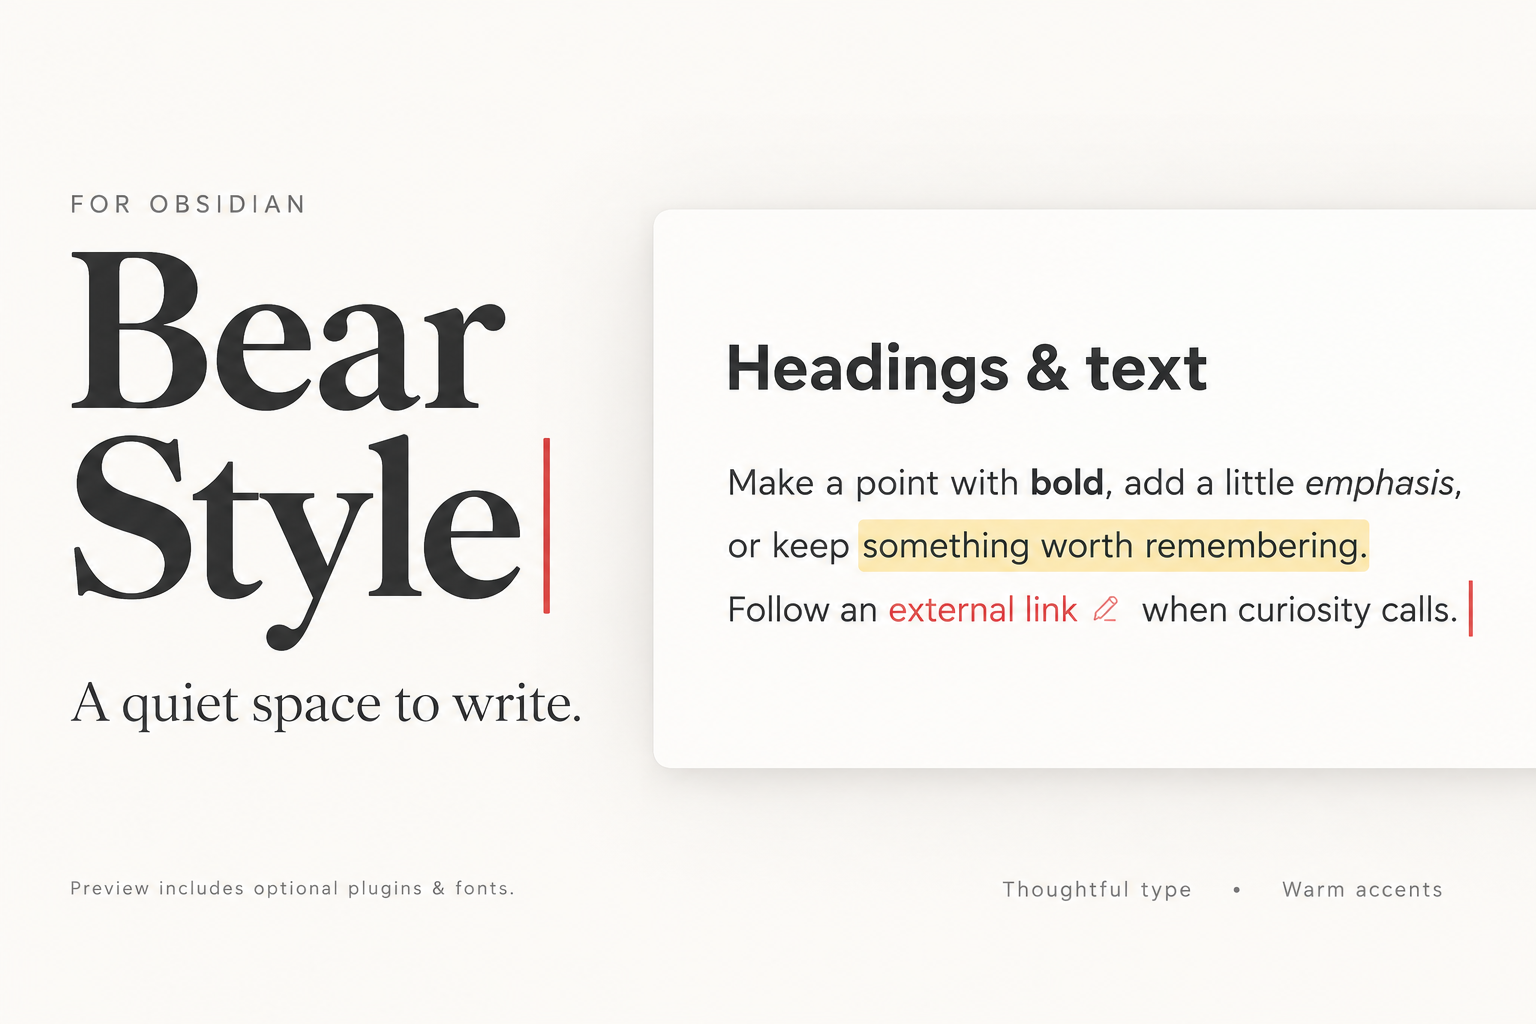
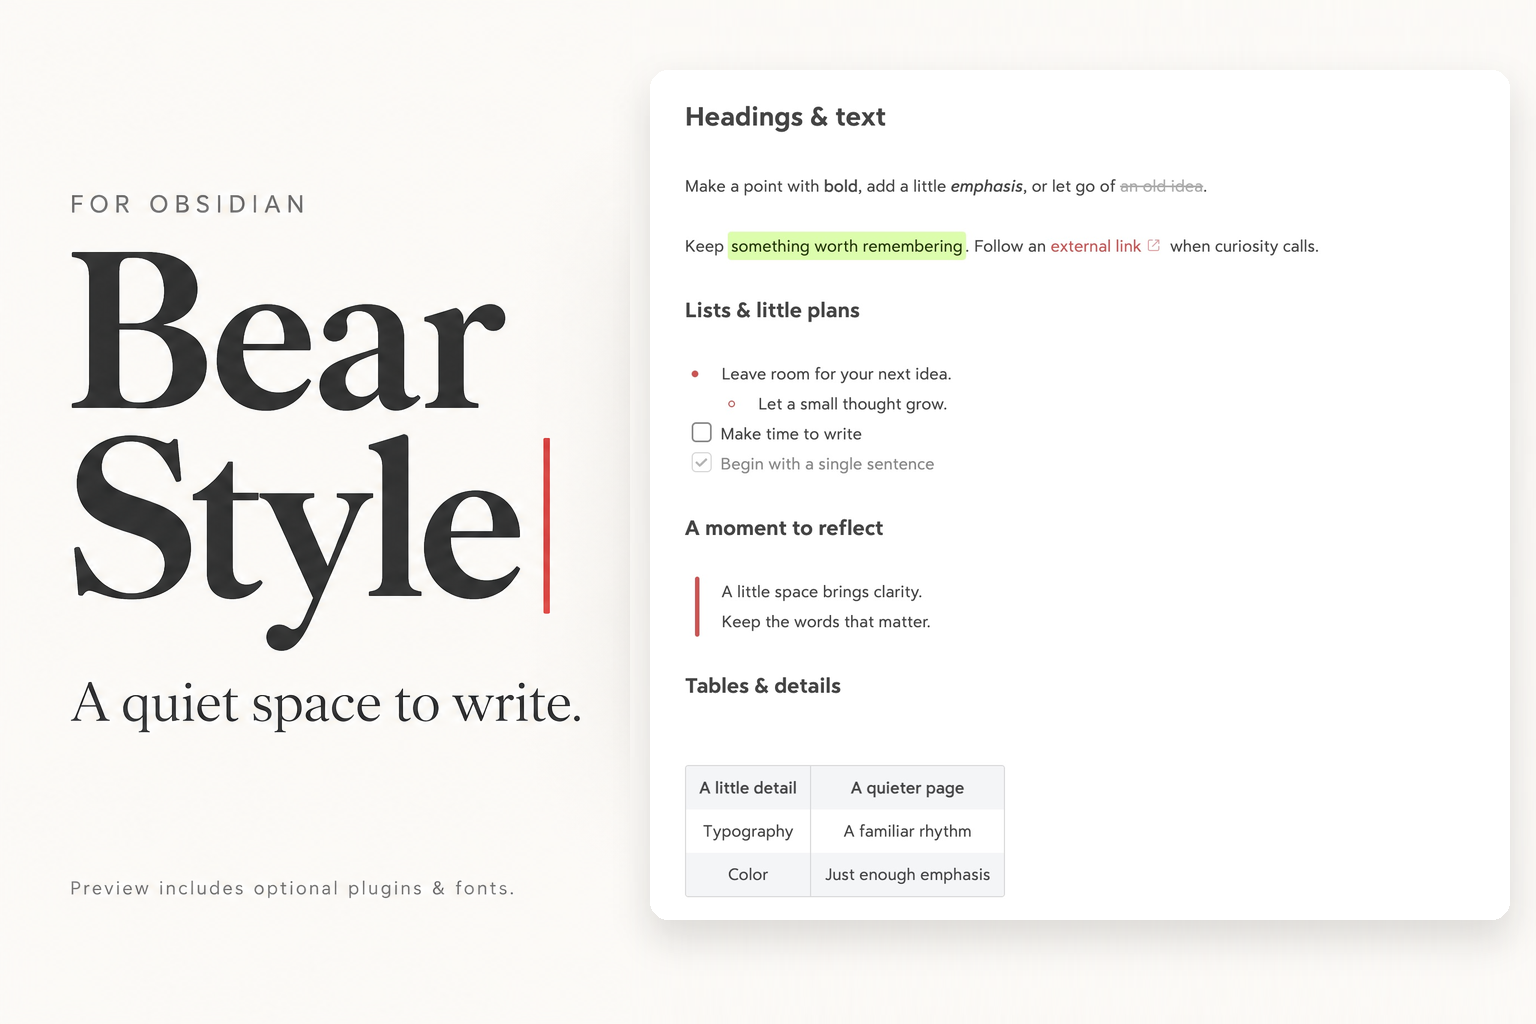
Refresh marketplace and README covers with real theme screenshots

diff --git a/scripts/compose_dark_poster.py b/scripts/compose_dark_poster.py
@@ -1,0 +1,35 @@
+"""Compose an editorial dark cover with untouched Obsidian screenshot crops."""
+from pathlib import Path
+from PIL import Image, ImageDraw, ImageFont
+ROOT=Path(__file__).resolve().parents[1]
+W,H=1800,1200
+im=Image.new('RGB',(W,H),'#111315')
+d=ImageDraw.Draw(im)
+fonts=Path('/System/Library/Fonts/Supplemental')
+def font(name,size):return ImageFont.truetype(str(fonts/name),size)
+def text(pos,s,size=24,color='#a2a3a4',name='Arial.ttf'):
+ d.text(pos,s,font=font(name,size),fill=color)
+# Brand and message occupy the top band; the genuine note takes the whole lower band.
+text((90,62),'BEAR STYLE  /  FOR OBSIDIAN',21,'#91a5b3')
+text((84,106),'A quiet space to write.',112,'#e6e8e9','Baskerville.ttc')
+d.rectangle((92,259,160,263),fill='#44a2e5')
+text((186,246),'Familiar type. Room to think. A softer kind of dark.',27,'#a2a3a4')
+text((1407,69),'DARK GRAPHITE',20,'#44a2e5')
+# Two editorial crops of the same real note; no text or icons are recreated.
+shot=Image.open(ROOT/'assets/market-cover/dark.png').convert('RGB')
+card=(80,347,1720,1045)
+d.rounded_rectangle(card,radius=22,fill='#1d1e1f',outline='#33373b',width=2)
+d.line((903,397,903,994),fill='#34383b',width=1)
+left=shot.crop((30,25,1410,765)).resize((760,408),Image.Resampling.LANCZOS)
+right=shot.crop((30,780,1410,1530)).resize((760,413),Image.Resampling.LANCZOS)
+im.paste(left,(111,420));im.paste(right,(936,420))
+text((126,945),'01   /   CAPTURE A THOUGHT',18,'#8194a1')
+text((954,945),'02   /   GIVE IT ROOM',18,'#8194a1')
+# A small functional palette key anchors the otherwise spacious second column.
+for i,c in enumerate(['#ccdbe5','#44a2e5','#355f3a','#a2a3a4']):
+ x=957+i*43
+ d.ellipse((x,877,x+15,892),fill=c)
+text((90,1100),'Bear Style',31,'#dfe0e0','Baskerville.ttc')
+text((1290,1107),'Real notes. Actual theme.',20,'#91a5b3')
+text((90,1150),'Preview includes optional plugins & fonts.',17,'#727d84')
+im.save(ROOT/'cover-dark-editorial.png')

diff --git a/scripts/compose_market_cover.py b/scripts/compose_market_cover.py
@@ -1,0 +1,35 @@
+from PIL import Image, ImageDraw, ImageFilter
+from pathlib import Path
+import argparse
+parser=argparse.ArgumentParser()
+parser.add_argument('--mode', choices=['light', 'dark'], default='light')
+mode=parser.parse_args().mode
+root=Path(__file__).resolve().parents[1]
+base=Image.open(root/'assets/market-cover/original-cover.png').convert('RGB')
+# Keep the original left branding; remove the old right card using its blank backdrop.
+backdrop=base.crop((630,0,1536,115)).resize((906,1024),Image.Resampling.BICUBIC)
+base.paste(backdrop,(630,0))
+if mode == 'dark':
+    # Recolor only the original branding; preserve its exact raster letterforms.
+    # The document screenshot below is never recolored.
+    pixels=[]
+    for r,g,b in base.getdata():
+        ink=max(0,min(1,(248-(r+g+b)/3)/210))
+        if r-g > 45 and r-b > 40:
+            ink=max(0,min(1,(r-g)/145))
+            fg=(68,162,229)
+        else:
+            fg=(223,224,224)
+        pixels.append(tuple(round(bg+(f-bg)*ink) for bg,f in zip((23,24,25),fg)))
+    base.putdata(pixels)
+note=Image.open(root/f'assets/market-cover/{mode}.png').convert('RGB')
+card=note.resize((860,850),Image.Resampling.LANCZOS)
+rounded=Image.new('L',card.size);ImageDraw.Draw(rounded).rounded_rectangle((0,0,859,849),radius=18,fill=255)
+shadow=Image.new('RGBA',base.size)
+ImageDraw.Draw(shadow).rounded_rectangle((650,88,1510,938),radius=18,fill=(0,0,0,100) if mode == 'dark' else (25,22,18,35))
+shadow=shadow.filter(ImageFilter.GaussianBlur(18))
+base=Image.alpha_composite(base.convert('RGBA'),shadow)
+base.paste(card,(650,70),rounded)
+if mode == 'dark':
+    ImageDraw.Draw(base).rounded_rectangle((650,70,1509,919),radius=18,outline=(51,53,55),width=1)
+base.convert('RGB').save(root/f'cover-{mode}.png')

diff --git a/scripts/package.py b/scripts/package.py
@@ -12,7 +12,7 @@ subprocess.run([sys.executable, str(root / "scripts/build_theme.py"), "--check"]
 assert json.loads((root / "manifest.json").read_text())["version"] == version
 files = [
     "README.md", "README.zh-CN.md", "INSTALL.md", "LICENSE", "CHANGELOG.md", "VERSION",
-    "theme.css", "manifest.json", "versions.json", "cover.png",
+    "theme.css", "manifest.json", "versions.json", "cover.png", "cover-dark-editorial.png",
     "docs/typography-calibration.md", "scripts/build_theme.py",
     "package.json", "package-lock.json", ".stylelintrc.json",
     "snippets/bear.css", "plugins/bear-cursor/manifest.json",

diff --git a/README.md b/README.md
@@ -1,6 +1,8 @@
 # Bear Style
 
-![Bear Style — A quiet space to write. Promotional cover with optional plugins and fonts.](cover.png)
+![Bear Style light mode — real Obsidian text, lists, quotes, and tables.](cover.png)
+
+![Bear Style Dark Graphite — real Obsidian text, lists, quotes, and tables.](cover-dark-editorial.png)
 
 A quiet space to write. Bear-inspired typography, warm red accents, generous spacing, and an optional red **2px caret** for Obsidian.
 
@@ -73,7 +75,7 @@ Without the plugin, the theme or snippet still colors the native caret red; the 
 
 ## Match the screenshots
 
-The preview uses **Obsidian 1.13.7 on macOS**, the **Default** theme in **light mode**, and the shared Bear Style CSS snippet that also generates `theme.css`. The English marketplace cover is a designed promotional illustration based on this enhanced setup; the full README screenshots are actual Obsidian captures. The full-length image shows Reading view; the cursor close-up shows Live Preview. No third-party plugin code, fonts, or personal vault configuration is bundled.
+The covers use real **Obsidian 1.13.7 on macOS** captures in light and dark mode, composed with promotional typography. The note text, colors, and icons come directly from Obsidian. The full-length screenshots use the **Default** theme in **light mode** with the shared Bear Style CSS snippet that also generates `theme.css`. The full-length image shows Reading view; the cursor close-up shows Live Preview. No third-party plugin code, fonts, or personal vault configuration is bundled.
 
 | Component | What it contributes | Setup used here |
 | --- | --- | --- |
@@ -117,7 +119,7 @@ Fonts, base font size, and light/dark mode stay in Obsidian's Appearance setting
 
 - Tested with **Obsidian 1.13.7 on macOS**, both as a standalone theme and as a snippet on the default theme. Other themes may override the snippet rules.
 - Checked in Live Preview and Reading view: heading sizes, lists, quotes, highlights, images, and code layout. The caret was checked in body text, at heading starts, after links, and beside numbered list markers, including native fallback when disabled.
-- Dark mode was checked in Live Preview and Reading view against native Bear Dark Graphite on macOS; the screenshots above show light mode. Windows, Linux, and physical mobile devices have not been tested.
+- Dark mode was checked in Live Preview and Reading view against native Bear Dark Graphite on macOS; the covers show both modes, while the full-length screenshots show light mode. Windows, Linux, and physical mobile devices have not been tested.
 - The cursor plugin requires **Obsidian 1.13.7 or later** and is **desktop only**. Mobile retains its native caret. Later Obsidian versions are not automatically guaranteed compatible.
 - The plugin is designed to leave composition and Vim mode to the editor; IME candidate-window behavior and Vim mode have not been fully tested.
 

diff --git a/README.zh-CN.md b/README.zh-CN.md
@@ -1,6 +1,8 @@
 # Bear Style
 
-![Bear Style 宣传封面：安静舒适的写作空间，展示可选插件与字体效果。](cover.png)
+![Bear Style 浅色海报：真实 Obsidian 正文、列表、引用与表格。](cover.png)
+
+![Bear Style Dark Graphite 暗色海报：真实 Obsidian 正文、列表、引用与表格。](cover-dark-editorial.png)
 
 让 Obsidian 多一点 Bear 的感觉：舒展的排版、温暖的红色强调，以及可选的红色 **2px 光标**。
 
@@ -69,7 +71,7 @@ Agent 会按照[安装指南](INSTALL.md)识别仓库、安装商店主题和可
 
 ## 复现截图
 
-截图使用 **macOS、Obsidian 1.13.7、默认主题、浅色模式**，加上与正式主题共享的 Bear Style CSS。英文市场封面是基于这一增强配置设计的宣传插画；README 中的完整截图则来自 Obsidian 实际界面。长图展示阅读视图，光标特写展示实时阅览。仓库不附带第三方插件代码、字体或个人配置。
+两张海报使用 **macOS、Obsidian 1.13.7** 的真实浅色与暗色截图，配合宣传文字排版；文档的字体、颜色与图标均直接来自 Obsidian。下方长图使用**默认主题、浅色模式**，加上与正式主题共享的 Bear Style CSS。长图展示阅读视图，光标特写展示实时阅览。仓库不附带第三方插件代码、字体或个人配置。
 
 | 组件 | 作用 | 截图使用的配置 |
 | --- | --- | --- |
@@ -113,7 +115,7 @@ Code Styler 从 **Default** 预设开始：开启行号，代码块圆角 **4px*
 
 - 已在 macOS、Obsidian 1.13.7、默认主题下检查实时阅览和阅读视图中的排版、列表、引用、高亮、图片与代码。
 - 已检查正文、标题前、链接后、有序列表旁的光标，以及关闭插件后的原生光标回退。
-- 已在 macOS 的实时阅览和阅读视图中对照原生 Bear Dark Graphite 检查暗色效果；上方展示截图仍为浅色模式。Windows、Linux 和实体移动设备尚未测试。
+- 已在 macOS 的实时阅览和阅读视图中对照原生 Bear Dark Graphite 检查暗色效果；海报展示两种模式，长图为浅色模式。Windows、Linux 和实体移动设备尚未测试。
 - 光标插件最低要求 Obsidian **1.13.7**，仅限桌面端。手机保留原生光标，后续 Obsidian 版本仍可能需要适配。
 - 插件设计上会把输入法组合输入与 Vim 模式交给编辑器；输入法候选框行为及 Vim 模式尚未完整验证。
 

diff --git a/docs/market-cover.md b/docs/market-cover.md
@@ -1,7 +1,9 @@
-# Marketplace cover
+# 海报素材与回滚
 
-`cover.png` is an English promotional illustration created with the built-in imagegen tool, using the actual Obsidian note and cursor screenshots as visual references. The README keeps the original full-length screenshots as the evidence of the real interface. No Bear or Obsidian logo is used.
+`cover.png` 是商店与 README 使用的新版浅色海报；`cover-dark-editorial.png` 是 README 使用的新版暗色海报。文档部分均来自 Obsidian 1.13.7 阅读视图的真实截图，只做裁切和等比缩放。
 
-Design prompt: Create a polished 3:2 editorial marketplace cover for Bear Style, an independent Obsidian theme. Use warm off-white, charcoal type, and #DD4C4F red. Make Bear Style the main title with a red caret, add “FOR OBSIDIAN” and “A quiet space to write.” Show a calm white note sheet based faithfully on the provided Obsidian screenshots, featuring bold and italic text, yellow highlights, red links with a pencil icon, and the red caret. Include “Preview includes optional plugins & fonts.” Keep essential content in the central safe area, without logos, mascots, invented controls, gradients, or dramatic perspective.
+`assets/market-cover/` 保留浅色与暗色截图裁片、示例文档 `demo.md`，以及旧海报原始文件 `original-cover.png`。裁片不含个人笔记或应用侧栏。浅色版沿用旧海报左侧品牌排版，暗色版采用独立双栏构图；文档字体、图标和颜色不经过生成或重绘。
 
-The marketplace screenshot path is `cover.png`. The cover is illustrative; the theme does not install optional plugins or fonts.
+使用安装了 Pillow 的 Python 运行 `scripts/compose_market_cover.py` 生成 `cover-light.png`，再复制为 `cover.png`；运行 `scripts/compose_dark_poster.py` 生成暗色海报。暗色海报脚本使用 macOS 系统字体。主题不会自动安装可选插件或字体。
+
+回滚商店海报：将 `assets/market-cover/original-cover.png` 复制回 `cover.png`，提交并推送。商店条目保持引用 `cover.png`，图片更新可能受缓存影响。

diff --git a/assets/market-cover/demo.md b/assets/market-cover/demo.md
@@ -1,0 +1,24 @@
+## Headings & text
+
+Make a point with **bold**, add a little *emphasis*, or let go of ~~an old idea~~.
+
+Keep <mark class="hltr-green">something worth remembering</mark>. Follow an [external link](https://bear.app) when curiosity calls.
+
+### Lists & little plans
+
+- Leave room for your next idea.
+  - Let a small thought grow.
+- [ ] Make time to write
+- [x] Begin with a single sentence
+
+### A moment to reflect
+
+> A little space brings clarity.
+> Keep the words that matter.
+
+### Tables & details
+
+| A little detail | A quieter page |
+| --- | --- |
+| Typography | A familiar rhythm |
+| Color | Just enough emphasis |
